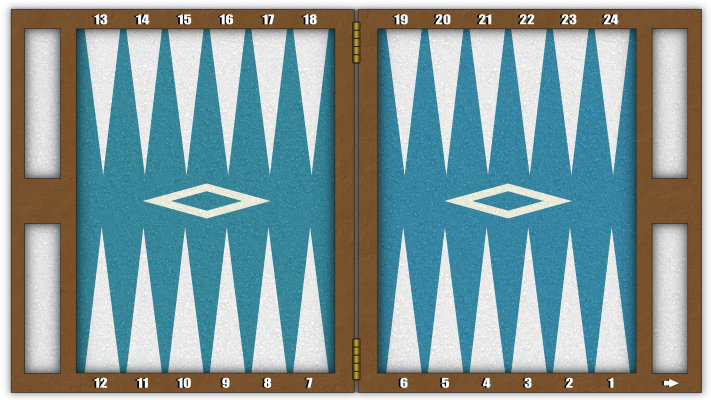
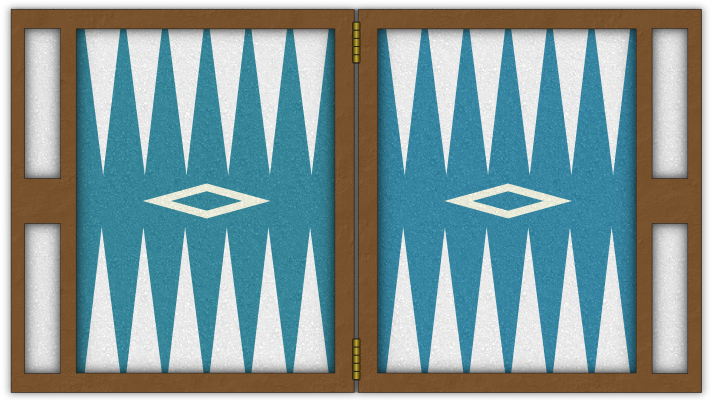
FEATURE: removed position numbers and added dinamic checker's direction arrow

diff --git a/GnuBackgammon/src/it/alcacoop/backgammon/actors/Board.java b/GnuBackgammon/src/it/alcacoop/backgammon/actors/Board.java
@@ -81,7 +81,7 @@ public class Board extends Group {
   public Dices dices;
   public AvailableMoves availableMoves;
   
-  private Image boardbg;
+  private Image boardbg, larrow, rarrow;
   public BoardImage board;
   public JSONProperties jp;
 
@@ -142,7 +142,15 @@ public class Board extends Group {
     thinking.addAction(Actions.forever(Actions.sequence(Actions.alpha(0.7f, 0.4f), Actions.alpha(1, 0.5f))));
     thinking.setVisible(false);
     addActor(thinking);
-
+    
+    larrow = new Image(GnuBackgammon.atlas.findRegion("larrow"));
+    rarrow = new Image(GnuBackgammon.atlas.findRegion("rarrow"));
+    larrow.setVisible(false);
+    rarrow.setVisible(false);
+    addActor(larrow);
+    addActor(rarrow);
+    
+    
     TextButtonStyle ts = GnuBackgammon.skin.get("button", TextButtonStyle.class);
     rollBtn = new TextButton("Roll", ts);
     rollBtn.addListener(new ClickListener(){
@@ -237,6 +245,8 @@ public class Board extends Group {
   public void initBoard() {
     abandon();
     points.resetBoff();
+    larrow.setVisible(false);
+    rarrow.setVisible(false);
     doublingCube.reset();
     MatchState.resignValue = 0;
     MatchState.fMove = 0;
@@ -582,6 +592,7 @@ public class Board extends Group {
   }
   
   public void rollDices() {
+    showArrow();
     GnuBackgammon.Instance.snd.playRoll();
     dices.clear();
     int[] ds = {0,0};
@@ -595,11 +606,30 @@ public class Board extends Group {
   }
   
   public void rollDices(int d1, int d2) {
+    showArrow();
     dices.clear();
-    
     //SHOW ALWAYS BIGGER DICE ON LEFT
     if (d1>d2) dices.show(d1, d2, false);
     else dices.show(d2, d1, false);
   }
   
+  public void showArrow() {
+    Vector2 p = getBoardCoord(MatchState.fMove, -1, 0);
+    if (MatchState.fMove==0)
+      p.y -= larrow.getHeight()*2.8f/2;
+    else
+      p.y += 2*GnuBackgammon.Instance.jp.asFloat("pos", 0)+larrow.getHeight()*3f/2;
+    p.x -= larrow.getWidth()/2;
+    if (GnuBackgammon.Instance.appearencePrefs.getString("DIRECTION","AntiClockwise").equals("AntiClockwise")) {
+      //RARROW
+      larrow.setVisible(false);
+      rarrow.setVisible(true);
+      rarrow.setPosition(p.x, p.y);
+    } else {
+      //LARROW
+      larrow.setVisible(true);
+      rarrow.setVisible(false);
+      larrow.setPosition(p.x, p.y);
+    }
+  }
 } //END CLASS
